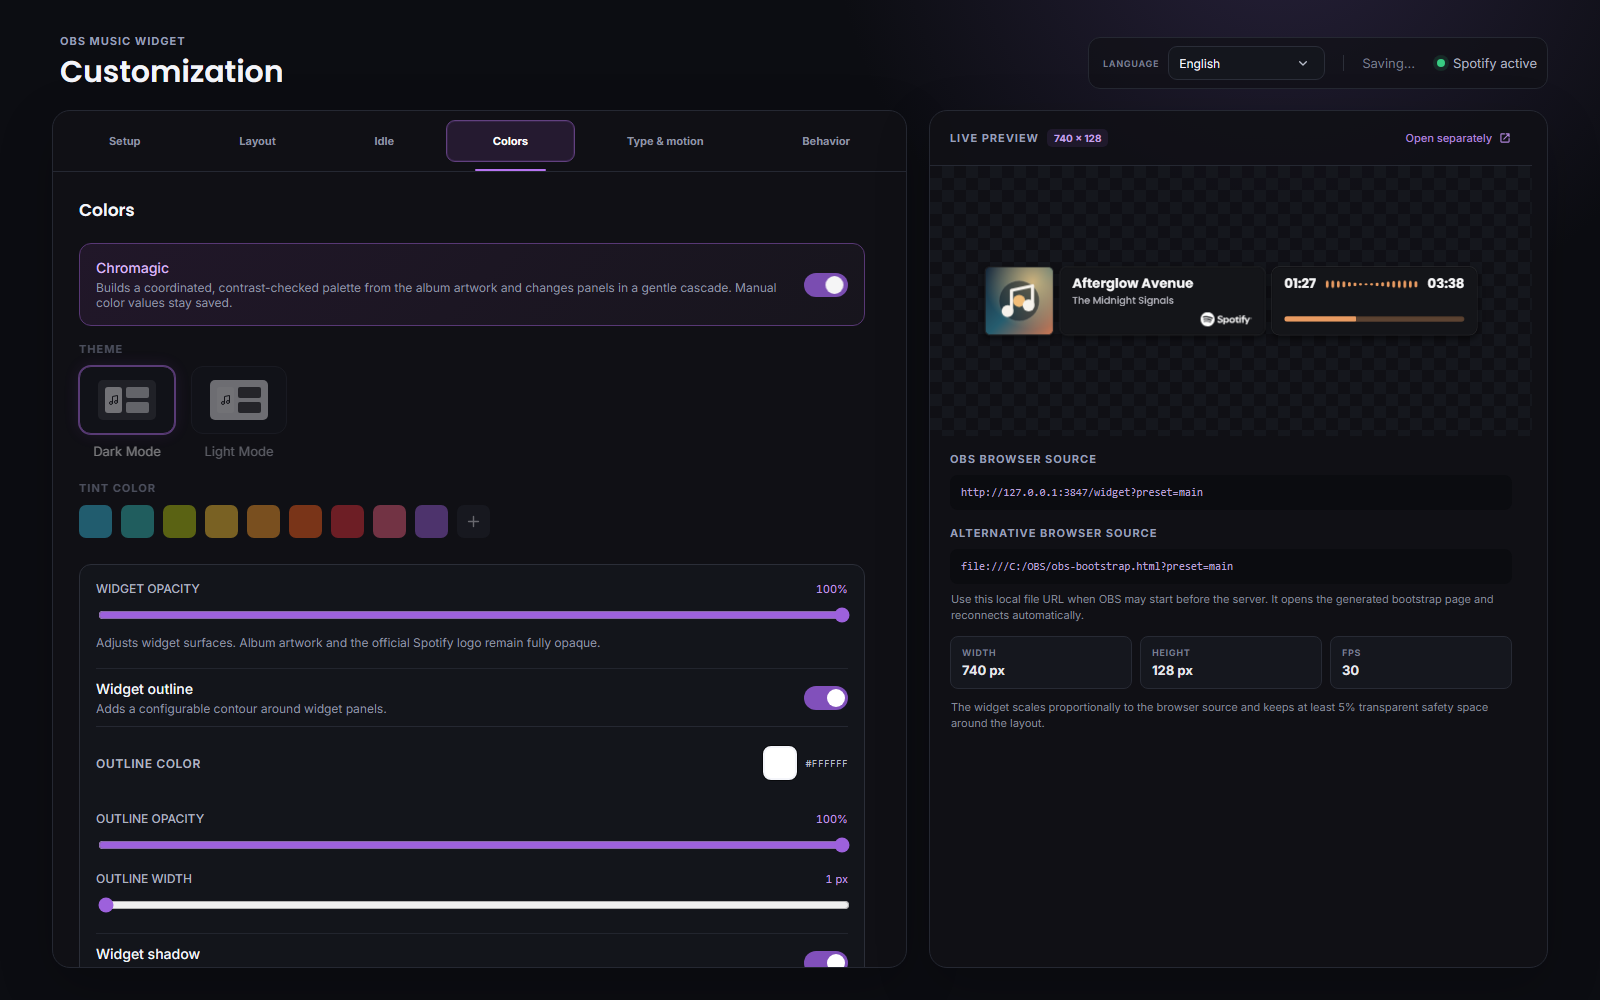
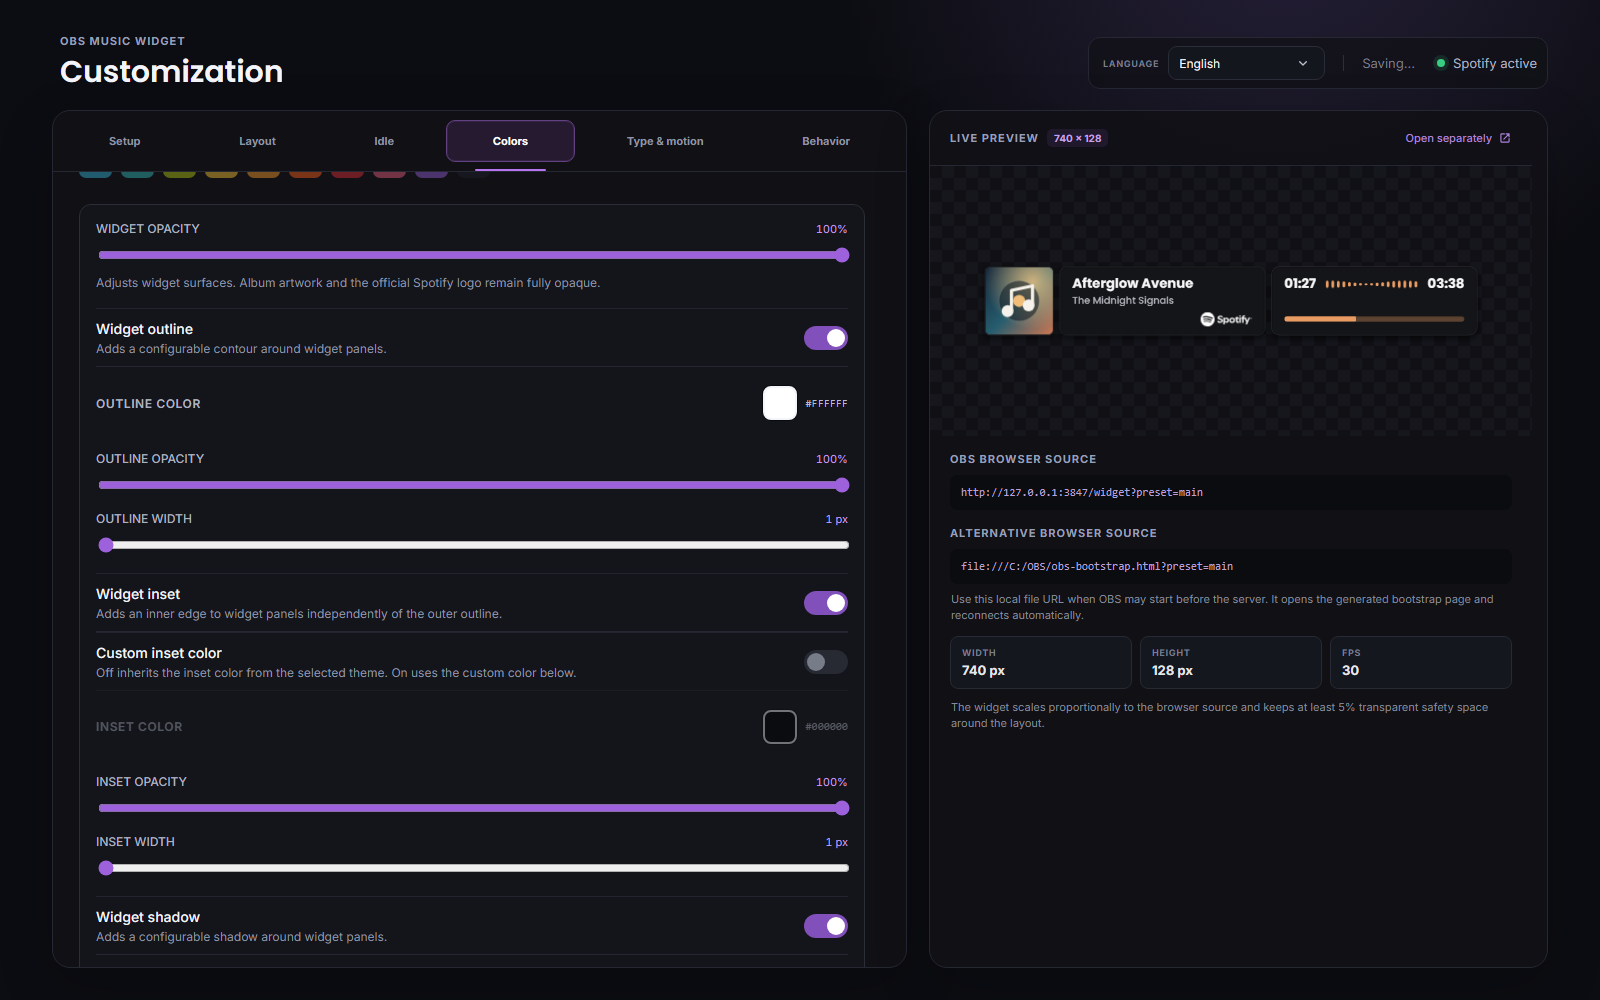
Release v1.0.4
Add per-profile widget inset controls with independent enabled state, opacity, width, and retained custom color. Theme inheritance remains the default and existing profiles migrate from their former outline-coupled inset state.

Refine the Compact progress bar so its unfilled area uses the panel surface and opacity directly against the shared outline, inset treatment, and drop shadow without an additional inner frame.

Update English and German dashboard copy, README guidance, AGENTS styling rules, changelog, neutral documentation captures, schema migration coverage, and browser capture assertions.

Verification: npm test passes with 16 unit tests and the lifecycle smoke test; npm run docs:capture passes.

Changed region(s): [[0.0312, 0.155, 0.5312, 0.992], [0.4688, 0.372, 0.5, 0.434]]

diff --git a/src/shared/schema.ts b/src/shared/schema.ts
@@ -52,7 +52,41 @@ const ProgressStyleSchema = z.preprocess((progressStyle) => {
   trackColor: HexColorSchema.default("#f5f5f5")
 })).default({ customTrackColor: false, trackColor: "#f5f5f5" });
 
-const WidgetStyleSchema = z.object({
+const WidgetInsetStyleSchema = z.preprocess((insetStyle) => {
+  if (!insetStyle || typeof insetStyle !== "object") return insetStyle;
+  const legacy = insetStyle as Record<string, unknown>;
+  if (typeof legacy.customColor === "boolean") return insetStyle;
+  return {
+    ...legacy,
+    customColor: typeof legacy.color === "string",
+    color: typeof legacy.color === "string" ? legacy.color : "#000000"
+  };
+}, z.object({
+  enabled: z.boolean().default(true),
+  customColor: z.boolean().default(false),
+  color: HexColorSchema.default("#000000"),
+  opacity: z.number().int().min(0).max(100).default(100),
+  width: z.number().int().min(1).max(4).default(1)
+})).default({ enabled: true, customColor: false, color: "#000000", opacity: 100, width: 1 });
+
+const WidgetStyleSchema = z.preprocess((widgetStyle) => {
+  if (!widgetStyle || typeof widgetStyle !== "object") return widgetStyle;
+  const legacy = widgetStyle as Record<string, unknown>;
+  if (legacy.inset) return widgetStyle;
+  const legacyOutline = legacy.outline && typeof legacy.outline === "object"
+    ? legacy.outline as Record<string, unknown>
+    : null;
+  return {
+    ...legacy,
+    inset: {
+      enabled: typeof legacyOutline?.enabled === "boolean" ? legacyOutline.enabled : true,
+      customColor: false,
+      color: "#000000",
+      opacity: 100,
+      width: 1
+    }
+  };
+}, z.object({
   surfaceOpacity: z.number().int().min(0).max(100).default(100),
   outline: z.object({
     enabled: z.boolean().default(true),
@@ -60,15 +94,17 @@ const WidgetStyleSchema = z.object({
     opacity: z.number().int().min(0).max(100).default(100),
     width: z.number().int().min(1).max(4).default(1)
   }).default({ enabled: true, color: null, opacity: 100, width: 1 }),
+  inset: WidgetInsetStyleSchema,
   shadow: z.object({
     enabled: z.boolean().default(true),
     color: HexColorSchema.nullable().default(null),
     opacity: z.number().int().min(0).max(100).default(100),
     blur: z.number().int().min(0).max(30).default(9)
   }).default({ enabled: true, color: null, opacity: 100, blur: 9 })
-}).default({
+})).default({
   surfaceOpacity: 100,
   outline: { enabled: true, color: null, opacity: 100, width: 1 },
+  inset: { enabled: true, customColor: false, color: "#000000", opacity: 100, width: 1 },
   shadow: { enabled: true, color: null, opacity: 100, blur: 9 }
 });
 
@@ -222,6 +258,7 @@ export const defaultConfig: AppConfig = {
       widgetStyle: {
         surfaceOpacity: 100,
         outline: { enabled: true, color: null, opacity: 100, width: 1 },
+        inset: { enabled: true, customColor: false, color: "#000000", opacity: 100, width: 1 },
         shadow: { enabled: true, color: null, opacity: 100, blur: 9 }
       },
       coverPalette: { enabled: false },

diff --git a/src/client/dashboard/App.tsx b/src/client/dashboard/App.tsx
@@ -29,6 +29,7 @@ const fallbackTextStyle: Preset["textStyle"] = {
 const fallbackWidgetStyle: Preset["widgetStyle"] = {
   surfaceOpacity: 100,
   outline: { enabled: true, color: null, opacity: 100, width: 1 },
+  inset: { enabled: true, customColor: false, color: "#000000", opacity: 100, width: 1 },
   shadow: { enabled: true, color: null, opacity: 100, blur: 9 }
 };
 const animations: Array<{ value: Preset["animations"]["enter"]; label: TranslationKey }> = [
@@ -561,6 +562,28 @@ export function App() {
                   onChange={(opacity) => updateWidgetStyle({ outline: { ...widgetStyle.outline, opacity } })} />
                 <RangeField label={t("outlineWidth")} value={widgetStyle.outline.width} min={1} max={4} suffix=" px"
                   onChange={(width) => updateWidgetStyle({ outline: { ...widgetStyle.outline, width } })} />
+              </div>}
+
+              <div className="row-setting compact-row widget-inset-setting">
+                <div><strong>{t("widgetInset")}</strong><small>{t("widgetInsetHint")}</small></div>
+                <Toggle label={t("widgetInset")} checked={widgetStyle.inset.enabled}
+                  onChange={(enabled) => updateWidgetStyle({ inset: { ...widgetStyle.inset, enabled } })} />
+              </div>
+              {widgetStyle.inset.enabled && <div className="widget-style-controls widget-inset-controls">
+                <div className="row-setting compact-row custom-inset-setting">
+                  <div><strong>{t("customInsetColor")}</strong><small>{t("customInsetColorHint")}</small></div>
+                  <Toggle label={t("customInsetColor")} checked={widgetStyle.inset.customColor}
+                    onChange={(customColor) => updateWidgetStyle({ inset: { ...widgetStyle.inset, customColor } })} />
+                </div>
+                <fieldset className="text-style-fields widget-inset-color-fields" disabled={!widgetStyle.inset.customColor}>
+                  <ColorField label={t("insetColor")}
+                    value={widgetStyle.inset.color}
+                    onChange={(color) => updateWidgetStyle({ inset: { ...widgetStyle.inset, color } })} />
+                </fieldset>
+                <RangeField label={t("insetOpacity")} value={widgetStyle.inset.opacity} min={0} max={100} suffix="%"
+                  onChange={(opacity) => updateWidgetStyle({ inset: { ...widgetStyle.inset, opacity } })} />
+                <RangeField label={t("insetWidth")} value={widgetStyle.inset.width} min={1} max={4} suffix=" px"
+                  onChange={(width) => updateWidgetStyle({ inset: { ...widgetStyle.inset, width } })} />
               </div>}
 
               <div className="row-setting compact-row">

diff --git a/src/client/widget/Widget.tsx b/src/client/widget/Widget.tsx
@@ -26,6 +26,7 @@ const fallbackTextStyle: Preset["textStyle"] = {
 const fallbackWidgetStyle: Preset["widgetStyle"] = {
   surfaceOpacity: 100,
   outline: { enabled: true, color: null, opacity: 100, width: 1 },
+  inset: { enabled: true, customColor: false, color: "#000000", opacity: 100, width: 1 },
   shadow: { enabled: true, color: null, opacity: 100, blur: 9 }
 };
 
@@ -308,6 +309,10 @@ export function Widget() {
   const outlineColor = widgetStyle.outline.color
     ? hexToRgba(widgetStyle.outline.color, widgetStyle.outline.opacity / 100)
     : `color-mix(in srgb, var(--panel-border) ${widgetStyle.outline.opacity}%, transparent)`;
+  const insetStyle = widgetStyle.inset ?? fallbackWidgetStyle.inset;
+  const insetColor = insetStyle.customColor
+    ? hexToRgba(insetStyle.color, insetStyle.opacity / 100)
+    : `color-mix(in srgb, var(--panel-inset) ${insetStyle.opacity}%, transparent)`;
   const shadowColor = widgetStyle.shadow.color
     ? hexToRgba(widgetStyle.shadow.color, widgetStyle.shadow.opacity / 100)
     : `color-mix(in srgb, var(--panel-shadow) ${widgetStyle.shadow.opacity}%, transparent)`;
@@ -326,8 +331,8 @@ export function Widget() {
     "--widget-drop-shadow": widgetStyle.shadow.enabled
       ? `0 4px ${widgetStyle.shadow.blur}px ${shadowColor}`
       : "0 0 0 transparent",
-    "--widget-inset-outline": widgetStyle.outline.enabled
-      ? "inset 0 0 0 1px var(--panel-inset)"
+    "--widget-inset-outline": insetStyle.enabled
+      ? `inset 0 0 0 ${insetStyle.width}px ${insetColor}`
       : "inset 0 0 0 transparent",
     ...(textColor ? {
       "--text": textColor,

diff --git a/src/client/widget/styles/layouts/_compact.scss b/src/client/widget/styles/layouts/_compact.scss
@@ -21,6 +21,7 @@
     }
     .time-row {
       grid-column: 2;
+      display: grid;
     }
   }
 
@@ -91,6 +92,7 @@
         1fr
       );
     align-items: center;
+    align-content: center;
     gap: 12px;
     padding: 8px 18px;
     border: var(--widget-outline-width) solid var(--widget-outline-color);
@@ -135,9 +137,11 @@
     height: 16px;
     margin: 0;
     border: var(--widget-outline-width) solid var(--widget-outline-color);
-    background: var(
-      --progress-track,
-      color-mix(in srgb, var(--accent) 48%, var(--panel))
+    border-radius: 13px;
+    background: color-mix(
+      in srgb,
+      var(--panel) var(--surface-opacity),
+      transparent
     );
     box-shadow:
       var(--widget-drop-shadow),

diff --git a/CHANGELOG.md b/CHANGELOG.md
@@ -6,8 +6,12 @@ The format is based on [Keep a Changelog](https://keepachangelog.com/en/1.1.0/).
 
 ## [Unreleased]
 
+## [1.0.4] - 2026-08-06
+
 ### Added
 
+- Added per-profile widget inset controls for enabled state, opacity, and width,
+  with a choice between the selected theme color and a retained custom color.
 - Added six keyboard-accessible dashboard tabs for Setup, Layout, Idle, Colors,
   Type and Motion, and Behavior. The desktop page remains fixed while the
   selected settings pane scrolls independently, and narrow viewports retain a
@@ -57,6 +61,10 @@ The format is based on [Keep a Changelog](https://keepachangelog.com/en/1.1.0/).
 
 ### Fixed
 
+- Gave the Compact progress bar the same configurable outline and drop shadow
+  treatment as its neighboring boxes. Its unfilled area now uses the same panel
+  surface and opacity as those boxes, while the accent fill extends directly to
+  the outline without an additional inner frame.
 - Prevented changing the Chromagic transition setting from replaying a stale
   palette animation; the fixed cascade starts only for an actual palette
   change.
@@ -68,6 +76,8 @@ The format is based on [Keep a Changelog](https://keepachangelog.com/en/1.1.0/).
 
 ### Compatibility
 
+- Existing profiles without explicit inset settings inherit the former inset
+  state from their outline setting, preserving their previous presentation.
 - Existing JSON configuration remains supported. Deprecated animation values
   are normalized during validation and migration rather than discarded.
 - Chromagic transition values previously persisted in profile configuration are

diff --git a/README.md b/README.md
@@ -212,7 +212,7 @@ You can change:
 - Dark and light themes
 - Preset accent colors and a custom color picker
 - Per-profile text color and shadow controls, optional automatic readability, and an unfilled progress-track color derived from the accent or explicitly overridden
-- Per-profile panel opacity, outline, and widget-shadow controls; Spotify artwork and logo attribution remain fully opaque
+- Per-profile panel opacity, outline, inner-edge (inset), and widget-shadow controls; inset colors can follow the selected theme or use a custom color, while Spotify artwork and logo attribution remain fully opaque
 - Optional Chromagic mode derives solid panel, text, accent, visualizer, and progress colors locally from the current cover while retaining manual color settings. Its fixed Panel Cascade softens palette changes by updating adjacent panels in sequence.
 - Independent metadata/progress entrance and exit animations: None or Fade. Existing Grow, Shrink, Swing, Tilt, and Slide settings migrate to Fade. Spotify artwork itself remains static.
 - Local and optional Google fonts

diff --git a/AGENTS.md b/AGENTS.md
@@ -502,6 +502,9 @@ The visualizer is decorative and does not represent real audio amplitude.
 - Derive the unfilled progress-track color from the accent by default. Use the
   stored custom base color only when its per-profile switch is enabled; the
   accent continues to control progress fill and the visualizer.
+- Let the widget inset inherit its color from the selected theme by default.
+  Preserve its stored custom color while theme inheritance is selected, and
+  apply that color only when the per-profile custom-color switch is enabled.
 - Use restrained text shadows only where dynamic backgrounds require them.
 - Do not add animated glow effects to the cover tint feature.
 - Avoid decorative Unicode in buttons, labels, and links.
